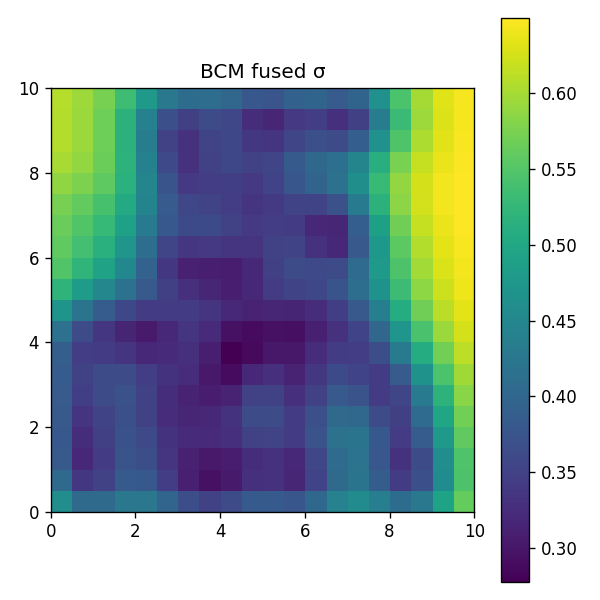
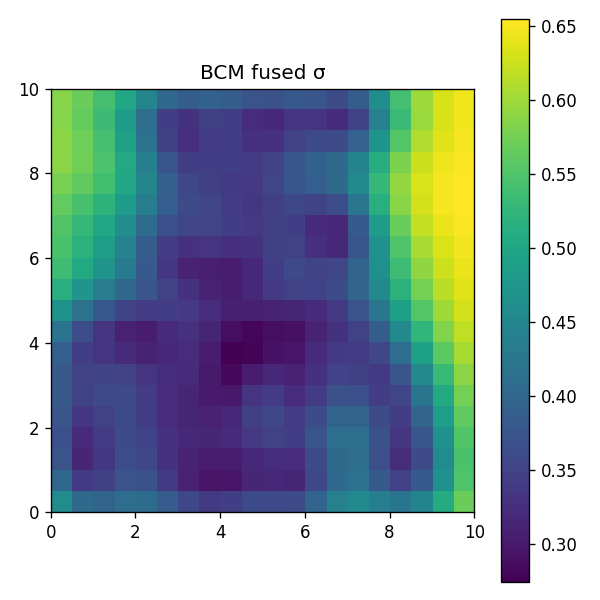
Fix: Resolve critic zero-loss issue (CVaR + PopArt gradients)

diff --git a/marl/mappo/algorithm.py b/marl/mappo/algorithm.py
@@ -58,6 +58,8 @@ class MAPPO:
         self.device = device
         self.actor_optim = torch.optim.Adam(actor.parameters(), lr=config.actor_lr)
         self.critic_optim = torch.optim.Adam(critic.parameters(), lr=config.critic_lr)
+        self._update_count = 0
+        self.diag_print = False
 
     def update(self, buffer: RolloutBuffer) -> Dict[str, float]:
         """Run :attr:`MAPPOConfig.ppo_epoch` PPO epochs over ``buffer``."""
@@ -77,6 +79,8 @@ class MAPPO:
                 "risk_advantage_std": 0.0,
                 "gp_attention_entropy": 0.0,
             })
+        self._update_count += 1
+        self._diag_emitted = False
         for _epoch in range(self.cfg.ppo_epoch):
             for batch in buffer.feed_forward_generator(self.cfg.num_mini_batch):
                 metrics = self._update_step(batch)
@@ -98,16 +102,27 @@ class MAPPO:
         targets: torch.Tensor,
         popart,
     ) -> torch.Tensor:
-        """PPO clipped value loss with optional PopArt normalisation."""
+        """PPO clipped value loss with optional PopArt normalisation.
+
+        Standard PopArt convention: the critic head output (``new_values``)
+        lives in *normalised* space; ``old_values`` and ``targets`` come from
+        the buffer in *raw* (de-normalised) space and must be normalised
+        before comparing.  The previous form also normalised ``new_values``,
+        producing ``((new − target)/σ)²`` whose minimiser is ``new → target``
+        in *raw* scale, but the rollout still de-normalised the head as
+        ``head·σ + μ``. That inflated returns by σ, grew σ, and eventually
+        overflowed ``mean_sq`` to FP +inf, freezing the loss at 0.
+        """
+        targets = torch.nan_to_num(targets, nan=0.0, posinf=0.0, neginf=0.0)
+        old_values = torch.nan_to_num(old_values, nan=0.0)
         if self.cfg.use_popart and popart is not None:
             popart.update(targets)
             norm_targets = popart.normalize(targets)
             norm_old = popart.normalize(old_values)
-            norm_new = popart.normalize(new_values)
             v_clipped = norm_old + torch.clamp(
-                norm_new - norm_old, -self.cfg.clip_param, self.cfg.clip_param,
+                new_values - norm_old, -self.cfg.clip_param, self.cfg.clip_param,
             )
-            uncl = (norm_new - norm_targets).pow(2)
+            uncl = (new_values - norm_targets).pow(2)
             cl = (v_clipped - norm_targets).pow(2)
         else:
             v_clipped = old_values + torch.clamp(
@@ -177,6 +192,37 @@ class MAPPO:
         old_values_mean = batch["old_values"]
         old_values_cvar = batch["old_values_cvar"]
         agent_sigmas = batch["agent_sigmas"]
+        first_mb = self.diag_print and not getattr(self, "_diag_emitted", True)
+        if first_mb:
+            with torch.no_grad():
+                pm = self.critic.popart_mean
+                pc = self.critic.popart_cvar
+                def _stat(t):
+                    return (
+                        float(t.min()), float(t.max()), float(t.mean()),
+                        int(torch.isnan(t).sum()), int(torch.isinf(t).sum()),
+                    )
+                rmn = _stat(returns_mean)
+                rrk = _stat(returns_risk)
+                print(
+                    f"[DIAG upd={self._update_count}] PRE-NAN ret_mean min/max/mean={rmn[0]:.3g}/{rmn[1]:.3g}/{rmn[2]:.3g} "
+                    f"nan={rmn[3]} inf={rmn[4]} | ret_risk min/max/mean={rrk[0]:.3g}/{rrk[1]:.3g}/{rrk[2]:.3g} "
+                    f"nan={rrk[3]} inf={rrk[4]}",
+                    flush=True,
+                )
+                print(
+                    f"[DIAG upd={self._update_count}] PopArt mean: mu={float(pm.mean):.4g} sigma={float(pm.std):.4g} debias={float(pm.debias):.4g} | "
+                    f"PopArt cvar: mu={float(pc.mean):.4g} sigma={float(pc.std):.4g} debias={float(pc.debias):.4g}",
+                    flush=True,
+                )
+        # Sanitise inputs: a single NaN slipping in (e.g. from a previously
+        # NaN-poisoned PopArt buffer) would otherwise wreck params here.
+        adv_mean_raw = torch.nan_to_num(adv_mean_raw, nan=0.0, posinf=0.0, neginf=0.0)
+        adv_risk_raw = torch.nan_to_num(adv_risk_raw, nan=0.0, posinf=0.0, neginf=0.0)
+        returns_mean = torch.nan_to_num(returns_mean, nan=0.0, posinf=0.0, neginf=0.0)
+        returns_risk = torch.nan_to_num(returns_risk, nan=0.0, posinf=0.0, neginf=0.0)
+        old_values_mean = torch.nan_to_num(old_values_mean, nan=0.0)
+        old_values_cvar = torch.nan_to_num(old_values_cvar, nan=0.0)
         # Risk-adjusted advantage (core RISE-MAPPO novelty).
         adv = adv_mean_raw - self.cfg.lambda_risk * adv_risk_raw
         adv = (adv - adv.mean()) / (adv.std() + 1e-8)
@@ -188,24 +234,49 @@ class MAPPO:
         policy_loss = -torch.min(surr1, surr2).mean()
         ent_term = entropy.mean()
         actor_total = policy_loss - self.cfg.entropy_coef * ent_term
-        self.actor_optim.zero_grad(set_to_none=True)
-        actor_total.backward()
-        nn.utils.clip_grad_norm_(self.actor.parameters(), self.cfg.max_grad_norm)
-        self.actor_optim.step()
+        if torch.isfinite(actor_total):
+            self.actor_optim.zero_grad(set_to_none=True)
+            actor_total.backward()
+            nn.utils.clip_grad_norm_(self.actor.parameters(), self.cfg.max_grad_norm)
+            if all(p.grad is None or torch.isfinite(p.grad).all() for p in self.actor.parameters()):
+                self.actor_optim.step()
         # Critic (dual-head).
         v_mean_pred, v_cvar_pred = self.critic(global_state, agent_sigmas=agent_sigmas)
+        if first_mb:
+            with torch.no_grad():
+                vm = v_mean_pred
+                vc = v_cvar_pred
+                print(
+                    f"[DIAG upd={self._update_count}] v_mean_pred min/max/mean={float(vm.min()):.4g}/{float(vm.max()):.4g}/{float(vm.mean()):.4g} | "
+                    f"v_cvar_pred min/max/mean={float(vc.min()):.4g}/{float(vc.max()):.4g}/{float(vc.mean()):.4g}",
+                    flush=True,
+                )
         v_mean_loss = self._value_loss(
             v_mean_pred, old_values_mean, returns_mean, self.critic.popart_mean,
         )
         v_cvar_loss = self._value_loss(
             v_cvar_pred, old_values_cvar, returns_risk, self.critic.popart_cvar,
         )
+        if first_mb:
+            print(
+                f"[DIAG upd={self._update_count}] RAW LOSS v_mean={float(v_mean_loss):.6g} v_cvar={float(v_cvar_loss):.6g}",
+                flush=True,
+            )
         value_loss = v_mean_loss + self.cfg.cvar_loss_coef * v_cvar_loss
         critic_total = self.cfg.value_loss_coef * value_loss
-        self.critic_optim.zero_grad(set_to_none=True)
-        critic_total.backward()
-        nn.utils.clip_grad_norm_(self.critic.parameters(), self.cfg.max_grad_norm)
-        self.critic_optim.step()
+        if torch.isfinite(critic_total):
+            self.critic_optim.zero_grad(set_to_none=True)
+            critic_total.backward()
+            pre_clip_norm = nn.utils.clip_grad_norm_(self.critic.parameters(), self.cfg.max_grad_norm)
+            if first_mb:
+                print(
+                    f"[DIAG upd={self._update_count}] critic grad_norm (pre-clip)={float(pre_clip_norm):.6g} max_grad_norm={self.cfg.max_grad_norm}",
+                    flush=True,
+                )
+            if all(p.grad is None or torch.isfinite(p.grad).all() for p in self.critic.parameters()):
+                self.critic_optim.step()
+        if first_mb:
+            self._diag_emitted = True
         with torch.no_grad():
             approx_kl = (old_log_probs - new_log_probs).mean()
             clip_frac = ((ratio - 1.0).abs() > self.cfg.clip_param).float().mean()

diff --git a/scripts/train.py b/scripts/train.py
@@ -105,6 +105,9 @@ def main() -> None:
     parser.add_argument("--smoke", action="store_true", help="Tiny config for end-to-end test.")
     parser.add_argument("--device", type=str, default=None, help="Override training device.")
     parser.add_argument("--log-level", type=str, default="INFO")
+    parser.add_argument("--resume", type=Path, default=None, help="Load actor+critic from checkpoint.")
+    parser.add_argument("--updates", type=int, default=None, help="Override n_training_updates.")
+    parser.add_argument("--diag", action="store_true", help="Enable critic diagnostic prints.")
     args = parser.parse_args()
 
     logging.basicConfig(
@@ -117,6 +120,8 @@ def main() -> None:
     runner_cfg = _make_runner_cfg(raw, args.seed, args.smoke)
     if args.device is not None:
         runner_cfg.device = args.device
+    if args.updates is not None:
+        runner_cfg.n_training_updates = args.updates
     _LOG.info(
         "config: env.num_robots=%d  rollout=%d  num_envs=%d  updates=%d  device=%s",
         env_cfg.num_robots,
@@ -126,6 +131,14 @@ def main() -> None:
         runner_cfg.device,
     )
     runner = build_default_pipeline(env_cfg, runner_cfg, mappo_cfg)
+    if args.resume is not None:
+        import torch
+        ckpt = torch.load(args.resume, map_location=runner.device)
+        runner.actor.load_state_dict(ckpt["actor"])
+        runner.critic.load_state_dict(ckpt["critic"])
+        _LOG.info("resumed actor+critic from %s (update=%s)", args.resume, ckpt.get("update"))
+    if args.diag:
+        runner.algo.diag_print = True
     runner.train()
 
 

diff --git a/marl/utils.py b/marl/utils.py
@@ -50,12 +50,24 @@ class PopArt(torch.nn.Module):
     @property
     def std(self) -> torch.Tensor:
         var = self.mean_sq - self.mean ** 2
+        var = torch.nan_to_num(var, nan=self.epsilon, posinf=1.0, neginf=self.epsilon)
         return torch.sqrt(torch.clamp(var, min=self.epsilon))
 
     def update(self, x: torch.Tensor) -> None:
         with torch.no_grad():
+            # Self-heal if state was corrupted (e.g. inf loaded from an old
+            # checkpoint with the legacy double-normalised loss). An inf EMA
+            # cannot decay back to a finite value, so reset rather than carry
+            # the poison forward.
+            if not (torch.isfinite(self.mean).all() and torch.isfinite(self.mean_sq).all()):
+                self.mean.zero_()
+                self.mean_sq.fill_(1.0)
+                self.debias.zero_()
+            x = torch.nan_to_num(x, nan=0.0, posinf=0.0, neginf=0.0)
             batch_mean = x.mean()
             batch_mean_sq = (x ** 2).mean()
+            if not (torch.isfinite(batch_mean) and torch.isfinite(batch_mean_sq)):
+                return
             self.debias.mul_(1 - self.beta).add_(self.beta * 1.0)
             self.mean.mul_(1 - self.beta).add_(self.beta * batch_mean)
             self.mean_sq.mul_(1 - self.beta).add_(self.beta * batch_mean_sq)

diff --git a/envs/multi_robot_search_env.py b/envs/multi_robot_search_env.py
@@ -261,8 +261,11 @@ class MultiRobotSearchEnv:
                 lyap_total / max(1, self.cfg.subgoal_steps * self.cfg.num_robots)
             ),
             "mpc_infeasible": int(infeasible_count),
-            # RISE-MAPPO: raw CVaR risk (unweighted) and per-agent GP sigma.
-            "risk_cost": float(cvar_total),
+            # RISE-MAPPO: normalised CVaR risk (same scale as reward's
+            # cvar term) and per-agent GP sigma. Storing raw cvar_total
+            # blew up the CVaR critic head because risk targets ended up
+            # ~subgoal_steps×num_robots larger than reward magnitude.
+            "risk_cost": float(normalised_cvar),
             "agent_sigmas": self._per_agent_sigmas(),
         }
         return self._build_observations(), rewards, terminations, truncations, infos

diff --git a/marl/mappo/runner.py b/marl/mappo/runner.py
@@ -254,6 +254,10 @@ class Runner:
             v_mean = self.critic.popart_mean.denormalize(v_mean)
         if self.critic.popart_cvar is not None and float(self.critic.popart_cvar.debias) > 1e-6:
             v_cvar = self.critic.popart_cvar.denormalize(v_cvar)
+        # NaN-safe: never poison the buffer with non-finite values.
+        v_mean = torch.nan_to_num(v_mean, nan=0.0, posinf=0.0, neginf=0.0)
+        v_cvar = torch.nan_to_num(v_cvar, nan=0.0, posinf=0.0, neginf=0.0)
+        sigmas = torch.nan_to_num(sigmas, nan=0.0, posinf=0.0, neginf=0.0)
         return (
             v_mean.cpu().numpy().astype(np.float32),
             v_cvar.cpu().numpy().astype(np.float32),